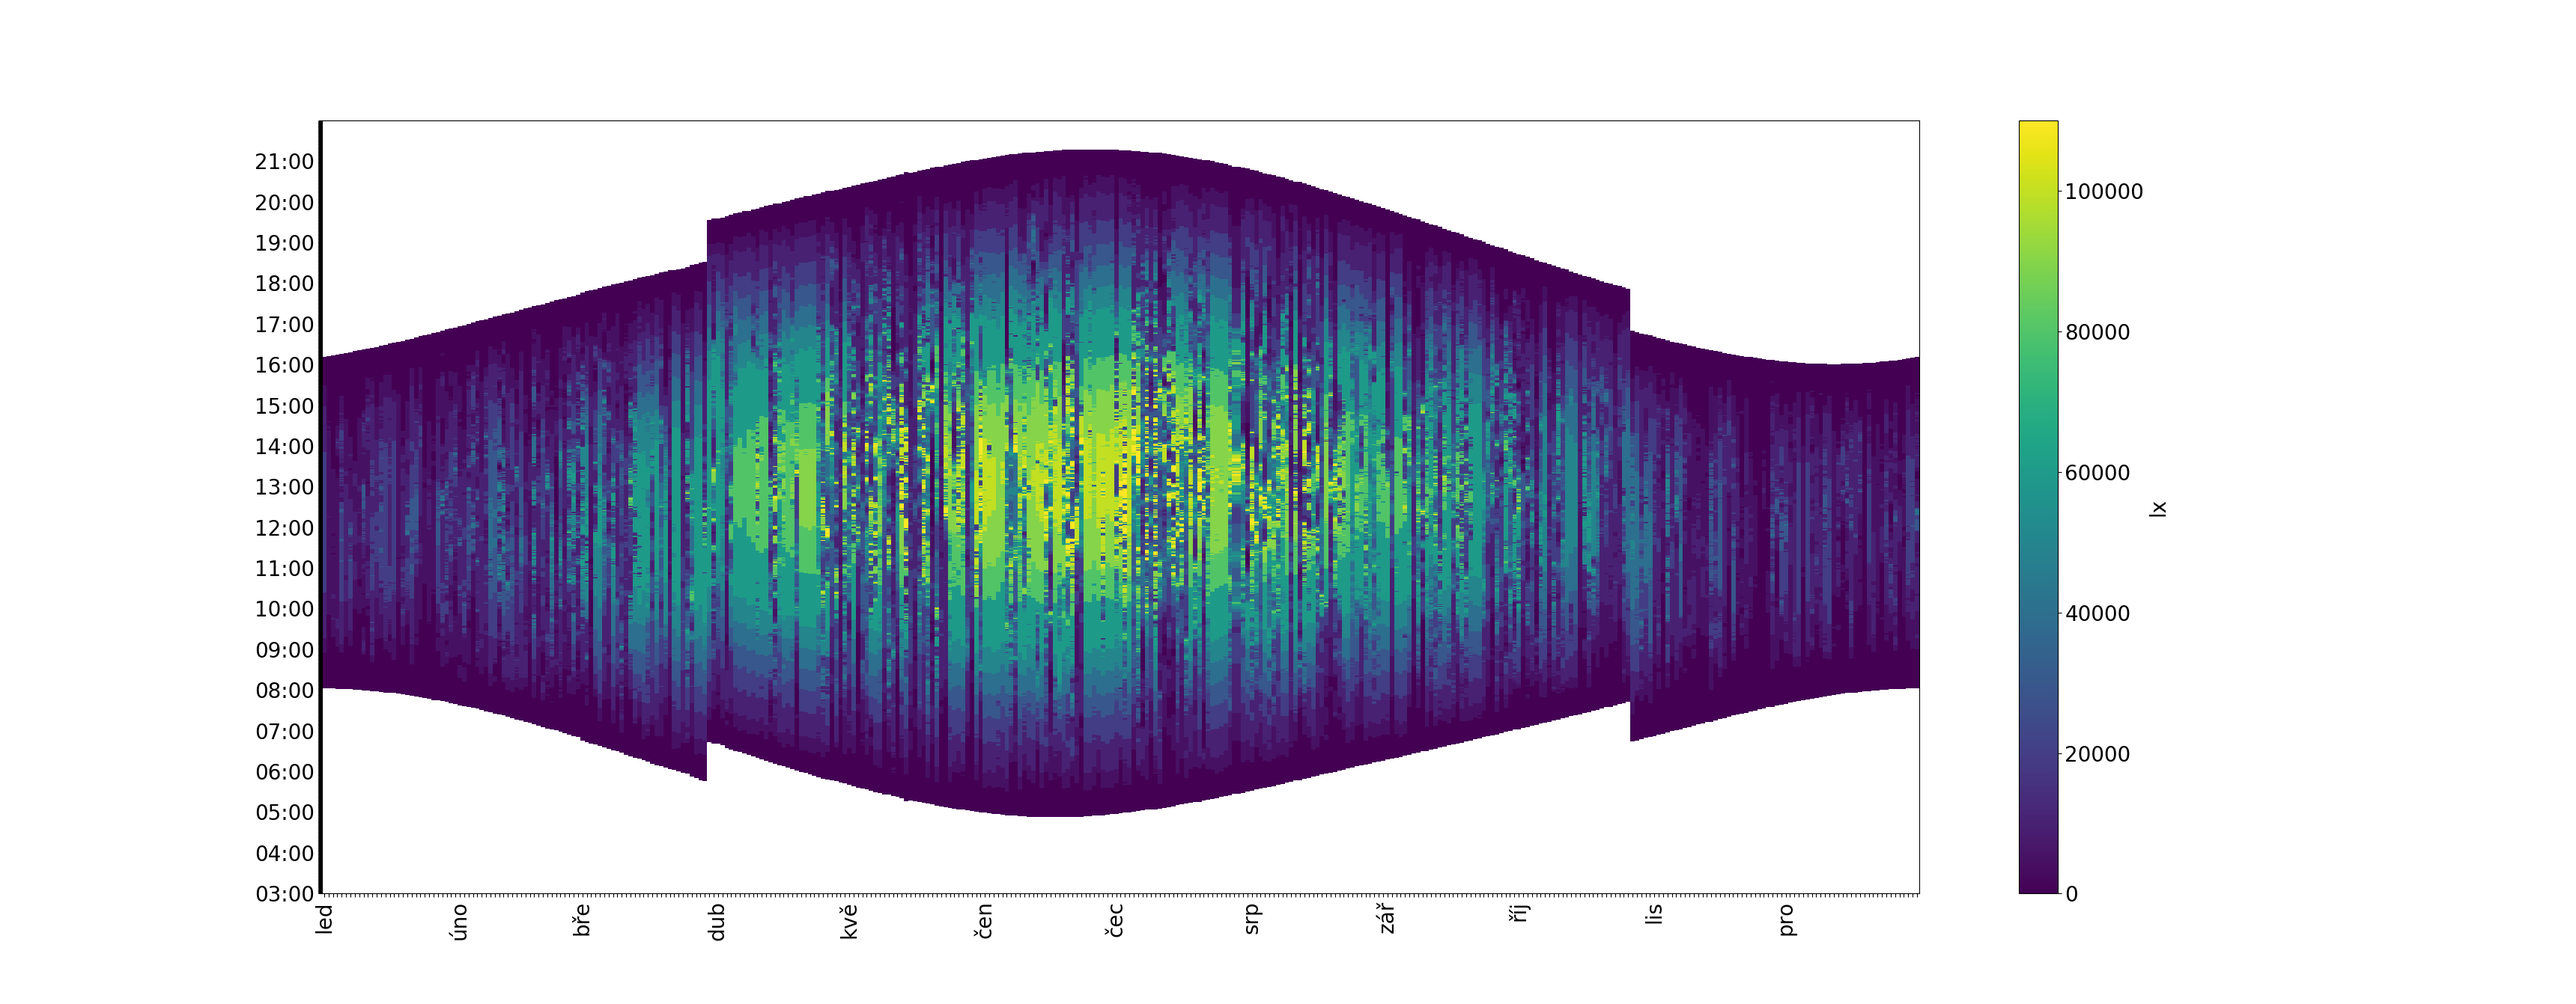
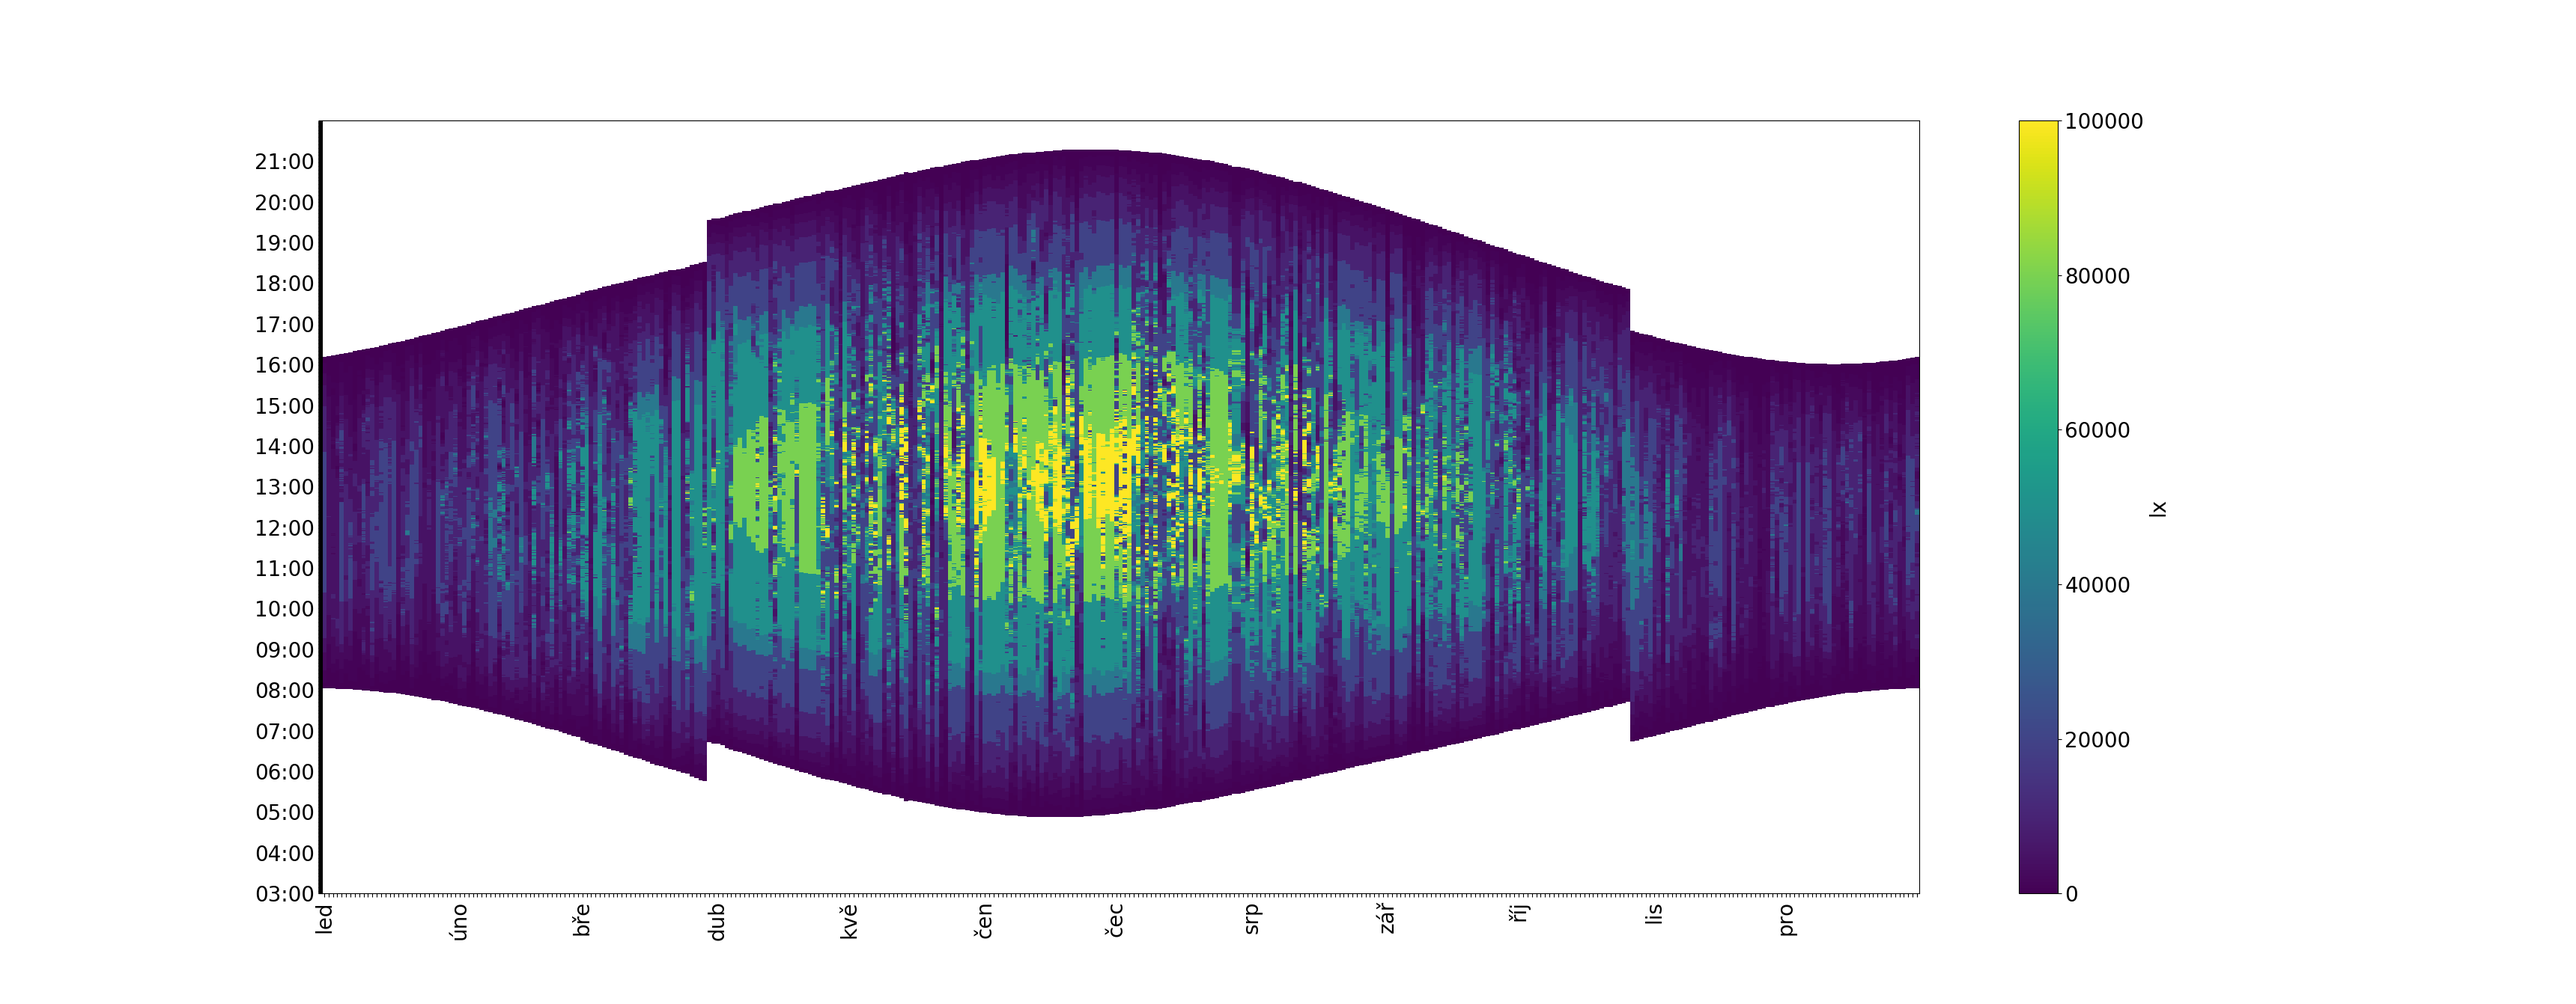
Use less granular threasholds

diff --git a/median_19_exterier_cvs_quantized_log.py b/median_19_exterier_cvs_quantized_log.py
@@ -23,30 +23,26 @@ def normalizeYear(d):
 df['day'] = df['day'].apply(normalizeYear)
 
 def quantize(n):
-  if n > 110000:
-    return 110000
-  elif n > 100000:
+  if n > 100000:
     return 100000
-  elif n > 90000:
-    return 90000
   elif n > 80000:
     return 80000
-  elif n > 60000:
-    return 60000
   elif n > 50000:
     return 50000
   elif n > 40000:
     return 40000
-  elif n > 30000:
-    return 30000
   elif n > 20000:
     return 20000
   elif n > 10000:
     return 10000
   elif n > 5000:
     return 5000
-  elif n > 0:
+  elif n > 2500:
+    return 2500
+  elif n > 1000:
     return 1000
+  elif n > 0:
+    return 100
   else:
     return n
 

diff --git a/median_19_exterier_cvs_quantized.py b/median_19_exterier_cvs_quantized.py
@@ -23,30 +23,26 @@ def normalizeYear(d):
 df['day'] = df['day'].apply(normalizeYear)
 
 def quantize(n):
-  if n > 110000:
-    return 110000
-  elif n > 100000:
+  if n > 100000:
     return 100000
-  elif n > 90000:
-    return 90000
   elif n > 80000:
     return 80000
-  elif n > 60000:
-    return 60000
   elif n > 50000:
     return 50000
   elif n > 40000:
     return 40000
-  elif n > 30000:
-    return 30000
   elif n > 20000:
     return 20000
   elif n > 10000:
     return 10000
   elif n > 5000:
     return 5000
+  elif n > 2500:
+    return 2500
+  elif n > 1000:
+    return 1000
   elif n > 0:
-    return 0
+    return 100
   else:
     return n
 
